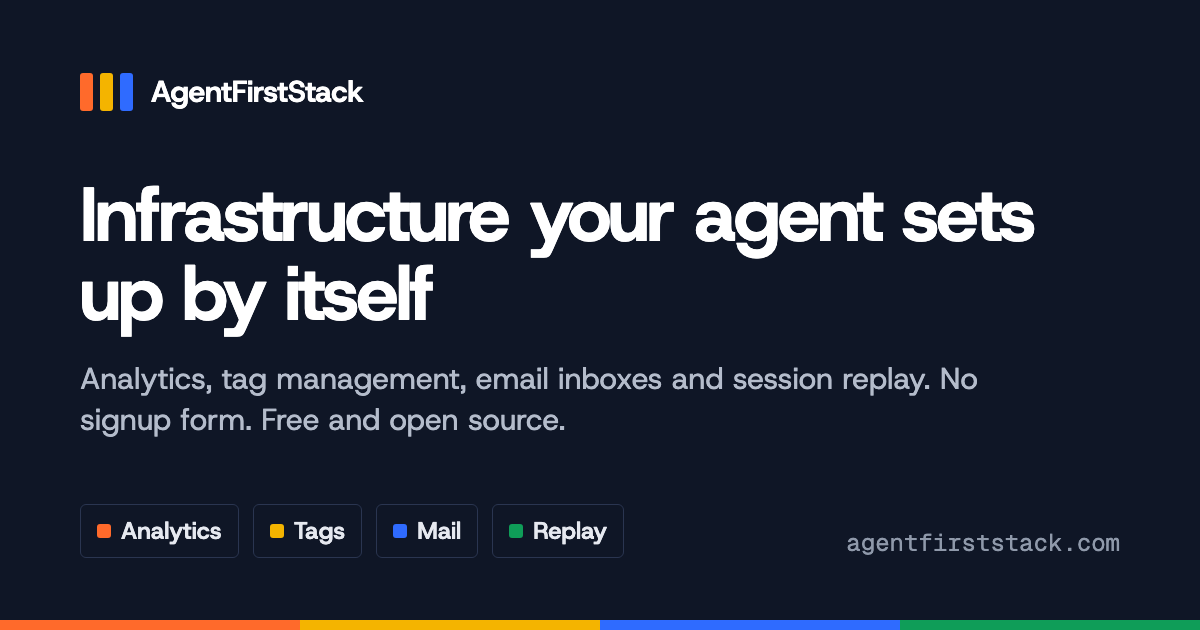
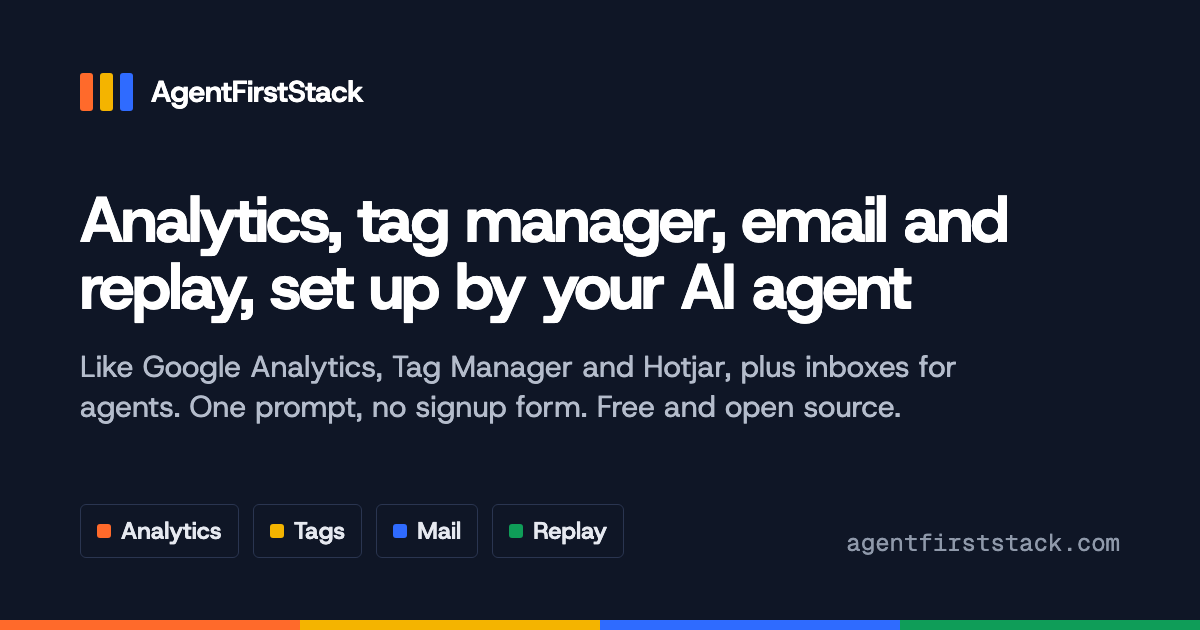
Landing page: say what it is in the headline, list every feature per service
The hero now names the four services and compares them with tools people
know, instead of "infrastructure". Under the service cards, a per-service
list of everything that is live, mirrored in index.md. New share card.

Claude-Session: https://claude.ai/code/session_01HFoY5UqoJPMDEvKj4n3CxU

Changed region(s): [[0.0617, 0.3016, 0.8633, 0.5429], [0.0617, 0.5429, 0.8325, 0.6937]]

diff --git a/site/public/index.html b/site/public/index.html
@@ -15,15 +15,15 @@
 <meta property="og:site_name" content="AgentFirstStack">
 <meta property="og:locale" content="en_US">
 <meta property="og:type" content="website">
-<meta property="og:title" content="AgentFirstStack: infrastructure your agent sets up by itself">
+<meta property="og:title" content="AgentFirstStack: analytics, tag manager, email and session replay your AI agent sets up">
 <meta property="og:description" content="Analytics, tag management, email inboxes and session replay your AI agent sets up end to end. No signup form. Free and open source.">
 <meta property="og:url" content="https://agentfirststack.com/">
 <meta property="og:image" content="https://agentfirststack.com/og/home.png">
 <meta property="og:image:width" content="1200">
 <meta property="og:image:height" content="630">
-<meta property="og:image:alt" content="AgentFirstStack: infrastructure your agent sets up by itself. Analytics, tags, mail, replay.">
+<meta property="og:image:alt" content="AgentFirstStack: analytics, tag manager, email and session replay, set up by your AI agent.">
 <meta name="twitter:card" content="summary_large_image">
-<meta name="twitter:title" content="AgentFirstStack: infrastructure your agent sets up by itself">
+<meta name="twitter:title" content="AgentFirstStack: analytics, tag manager, email and session replay your AI agent sets up">
 <meta name="twitter:description" content="Analytics, tag management, email inboxes and session replay your AI agent sets up end to end. Free and open source.">
 <meta name="twitter:image" content="https://agentfirststack.com/og/home.png">
 <meta name="theme-color" content="#FFFFFF">
@@ -107,8 +107,8 @@
 <section class="hero" id="setup">
   <div class="wrap hero-grid">
     <div class="hero-copy">
-      <h1>Infrastructure your agent sets up by itself</h1>
-      <p class="lede">Analytics, tag management with server-side conversion tracking, email inboxes and session replay. No signup form, no verification email, no dashboard to click through. Free and open source.</p>
+      <h1>Analytics, tag manager, email and session replay, set&nbsp;up by your AI agent</h1>
+      <p class="lede">Like Google Analytics, Google Tag Manager and Hotjar, plus email inboxes your agent can use. Paste one prompt and your coding agent creates the account, adds everything to your site and checks it works. No signup form, no dashboard. Free and open source.</p>
       <div class="actions">
         <button class="btn btn-primary" type="button" data-copy>Copy prompt for your agent</button>
         <a class="btn btn-quiet" href="/llms.txt">Read the manual</a>
@@ -280,6 +280,68 @@
         <a class="product-guide" href="/guides/session-replay-for-ai-agents">Session replay for AI agents</a>
       </article>
 
+    </div>
+    <div class="features" id="features">
+      <h3 class="features-title">What each service includes</h3>
+      <p class="features-lede">All of it over REST and MCP, with the same key. <a href="/guides">Comparisons with the tools you may use now</a>.</p>
+      <div class="features-grid">
+        <div class="feature-list" style="--c: var(--orange)">
+          <h4 class="product-name"><span class="dot" aria-hidden="true"></span>Analytics <span>instead of GA4, Plausible or DataFast</span></h4>
+          <dl>
+            <div><dt>Tracking</dt><dd>Cookieless by default, single-page and hash routing, custom events and properties (also from HTML attributes), outbound clicks, downloads, forms, 404s, scroll depth, engaged time, Core Web Vitals, site search, UTMs and ad click IDs</dd></div>
+            <div><dt>Server events</dt><dd>An events API with a dry run, joined to browser visitors</dd></div>
+            <div><dt>Reports</dt><dd>Stats, timeseries and comparisons, breakdowns by up to three dimensions, realtime, engagement rate, average order value, top movers, insights, CSV</dd></div>
+            <div><dt>Filters</dt><dd>Wildcards, nested and/or groups, saved segments, timezones</dd></div>
+            <div><dt>Goals and funnels</dt><dd>Goals that apply to past data, funnels in order or any order, with time windows and revenue per step</dd></div>
+            <div><dt>People</dt><dd>Visitors, sessions and journeys, first touch, retention cohorts, path exploration, six attribution models</dd></div>
+            <div><dt>Revenue</dt><dd>Stripe, a payments API, new and renewal revenue by source, page and campaign</dd></div>
+            <div><dt>Querying</dt><dd>Read-only SQL with cost limits, and a schema call that lists every event and property</dd></div>
+            <div><dt>Alerts</dt><dd>Spikes, drops, no data, goals and payments, plus weekly or monthly reports, by webhook, Slack or email</dd></div>
+            <div><dt>Privacy</dt><dd>Delete a visitor, purge with a dry run, email and phone redaction, path rules, exclusions, a referral-spam filter, Do Not Track and GPC</dd></div>
+          </dl>
+        </div>
+        <div class="feature-list" style="--c: var(--yellow)">
+          <h4 class="product-name"><span class="dot" aria-hidden="true"></span>Tags <span>instead of Google Tag Manager</span></h4>
+          <dl>
+            <div><dt>Workflow</dt><dd>A draft you edit item by item, diffs between versions, GTM import, a preview log, environments, versions and rollback</dd></div>
+            <div><dt>Triggers</dt><dd>Pageview, DOM ready, window loaded, consent initialization, clicks, forms, history changes, element visibility, scroll depth, timers, JavaScript errors, video, custom events, trigger groups</dd></div>
+            <div><dt>Variables</dt><dd>Data layer, URL parts, cookies, element attributes, lookup and regex tables, formatting, about 30 built-ins</dd></div>
+            <div><dt>Tag options</dt><dd>Priority, scheduling, sequencing, firing limits, consent per tag</dd></div>
+            <div><dt>Browser tags</dt><dd>GA4, Google Ads, Meta, TikTok, Snap, image pixels, custom HTML on verified domains</dd></div>
+            <div><dt>Conversion APIs</dt><dd>GA4, Google Ads, Meta, TikTok, LinkedIn, Pinterest, Reddit, Snap, X and webhooks, each counted once with the browser pixel</dd></div>
+            <div><dt>Routing</dt><dd>Per-platform conditions and parameter rules, test sends</dd></div>
+            <div><dt>Consent and identity</dt><dd>Consent Mode v2, TCF v2, hashed user data, cross-domain linking, a lookup store for values like margin by SKU</dd></div>
+            <div><dt>Monitoring</dt><dd>An event and delivery log, tag-fire stats, page coverage, retries and a circuit breaker</dd></div>
+          </dl>
+        </div>
+        <div class="feature-list" style="--c: var(--blue)">
+          <h4 class="product-name"><span class="dot" aria-hidden="true"></span>Mail <span>instead of AgentMail or a Gmail account</span></h4>
+          <dl>
+            <div><dt>Inboxes</dt><dd>Instant inboxes on our domain or yours, plus-address tags, labels, usage limits you can read</dd></div>
+            <div><dt>Waiting</dt><dd>Wait for an email and get the verification code or link back, from authenticated senders only</dd></div>
+            <div><dt>Reading</dt><dd>Threads, search, raw email, attachments and their text, calendar invites, replies without the quoted history</dd></div>
+            <div><dt>Sending</dt><dd>Send, reply and forward, safe to retry, scheduled sending, delivery status per recipient</dd></div>
+            <div><dt>Safety</dt><dd>Inboxes on the shared domain reply only to people who wrote first; allow and block lists</dd></div>
+            <div><dt>Domains</dt><dd>Custom domains with DNS checks, send-only domains, a zone file to import</dd></div>
+            <div><dt>Events</dt><dd>Signed webhooks, and an event feed an agent can poll without a public URL</dd></div>
+            <div><dt>Checks</dt><dd>A deliverability report for any message: SPF, DKIM and DMARC</dd></div>
+          </dl>
+        </div>
+        <div class="feature-list" style="--c: var(--green)">
+          <h4 class="product-name"><span class="dot" aria-hidden="true"></span>Replay <span>instead of Hotjar or Clarity</span></h4>
+          <dl>
+            <div><dt>Recording</dt><dd>Text and inputs masked in the browser by default, selectors to unmask, mask or block, sampling</dd></div>
+            <div><dt>Consent</dt><dd>Consent only where the law asks (EEA, UK, Switzerland), Google Consent Mode, TCF v2, Do Not Track and GPC, IP exclusion</dd></div>
+            <div><dt>Sessions</dt><dd>Search, readable transcripts, summaries across many sessions, raw events, exports, a share-link player and clips</dd></div>
+            <div><dt>Signals</dt><dd>Rage, dead and error clicks, quick backs, excessive scrolling, JavaScript and console errors, failed requests, a frustration score</dd></div>
+            <div><dt>Analysis</dt><dd>Tags and identify, saved segments, trends, funnel drop-offs, events defined after the fact</dd></div>
+            <div><dt>Heatmaps</dt><dd>Click, scroll and attention maps by element or zone, comparisons, conversion share, PNG images</dd></div>
+            <div><dt>Surveys</dt><dd>Popovers, embedded surveys and a feedback tab: NPS, CSAT, CES, product-market fit and text, triggered on exit intent or after a rage click, each answer linked to its session</dd></div>
+            <div><dt>Workflow</dt><dd>Notes, labels, stars, signed webhooks, signals sent on to analytics and your tag container</dd></div>
+            <div><dt>Privacy</dt><dd>Delete or look up one visitor&#x27;s data, recordings kept 14 days</dd></div>
+          </dl>
+        </div>
+      </div>
     </div>
   </div>
 </section>

diff --git a/site/public/styles.css b/site/public/styles.css
@@ -172,11 +172,11 @@ pre {
   align-items: center;
 }
 .hero h1 {
-  font-size: clamp(38px, 4.6vw, 56px);
+  font-size: clamp(36px, 4.2vw, 52px);
   font-weight: 650;
-  line-height: 1.04;
-  letter-spacing: -0.04em;
-  max-width: 13ch;
+  line-height: 1.06;
+  letter-spacing: -0.035em;
+  max-width: 17ch;
   text-wrap: balance;
 }
 .lede {
@@ -1129,7 +1129,7 @@ pre {
     grid-template-columns: 1fr;
   }
   .hero h1 {
-    max-width: 16ch;
+    max-width: 18ch;
   }
   .chat {
     height: 520px;
@@ -1252,4 +1252,78 @@ pre {
 .guides-all {
   margin-top: 16px;
   font-size: 14.5px;
+}
+
+/* Everything each service does, under the service cards */
+.features {
+  margin-top: clamp(40px, 5vw, 56px);
+}
+.features-title {
+  font-size: 21px;
+  font-weight: 650;
+  letter-spacing: -0.02em;
+}
+.features-lede {
+  margin-top: 6px;
+  font-size: 15px;
+  color: var(--ink-2);
+}
+.features-grid {
+  display: grid;
+  grid-template-columns: repeat(2, minmax(0, 1fr));
+  margin-top: 18px;
+  border: 1px solid var(--line);
+  border-radius: 14px;
+  background: #fff;
+  overflow: hidden;
+}
+.feature-list {
+  padding: 22px;
+}
+.feature-list h4 {
+  margin: 0;
+  flex-wrap: wrap;
+  row-gap: 2px;
+}
+.feature-list:nth-child(even) {
+  border-left: 1px solid var(--line);
+}
+.feature-list:nth-child(n + 3) {
+  border-top: 1px solid var(--line);
+}
+.feature-list dl {
+  display: grid;
+  gap: 10px;
+  margin: 14px 0 0;
+}
+.feature-list dl > div {
+  display: grid;
+  grid-template-columns: 112px minmax(0, 1fr);
+  gap: 14px;
+  font-size: 14px;
+  line-height: 1.5;
+}
+.feature-list dt {
+  font-weight: 600;
+}
+.feature-list dd {
+  margin: 0;
+  color: var(--ink-2);
+}
+@media (max-width: 980px) {
+  .features-grid {
+    grid-template-columns: 1fr;
+  }
+  .feature-list:nth-child(even) {
+    border-left: 0;
+  }
+  .feature-list + .feature-list {
+    border-top: 1px solid var(--line);
+  }
+}
+@media (max-width: 600px) {
+  .feature-list dl > div {
+    grid-template-columns: 1fr;
+    gap: 2px;
+  }
 }

diff --git a/site/public/index.md b/site/public/index.md
@@ -1,8 +1,9 @@
 # AgentFirstStack
 
-Infrastructure your agent sets up by itself: web analytics, tag management with server-side
-conversion tracking, email inboxes and session replay. No signup form, no verification email, no dashboard to
-click through. Free to use, and open source (MIT).
+Analytics, tag manager, email and session replay, set up by your AI agent. Like Google Analytics,
+Google Tag Manager and Hotjar, plus email inboxes your agent can use. Paste one prompt and your coding
+agent creates the account, adds everything to your site and checks it works. No signup form, no
+verification email, no dashboard to click through. Free to use, and open source (MIT).
 
 - Manual for agents: https://agentfirststack.com/llms.txt
 - Registration and credentials: https://agentfirststack.com/auth.md
@@ -27,6 +28,58 @@ click through. Free to use, and open source (MIT).
 | Tags | One snippet for every pixel; conversions sent from the browser and your server to GA4, Google Ads, Meta and TikTok with one event id, so each counts it once; click IDs kept; preview, publish, roll back | Google Tag Manager | https://tags.agentfirststack.com/llms.txt |
 | Mail | Inboxes in one request; verification codes and links extracted; read, reply, send; your own domain; webhooks | A Gmail account per project | https://mail.agentfirststack.com/llms.txt |
 | Replay | Session recordings masked in the browser by default; sessions as readable transcripts; rage, dead and error clicks; heatmaps and JS errors as data | Hotjar, Microsoft Clarity | https://replay.agentfirststack.com/llms.txt |
+
+## What each service includes
+
+All of it over REST and MCP, with the same key.
+
+### Analytics (instead of GA4, Plausible or DataFast)
+
+- **Tracking:** Cookieless by default, single-page and hash routing, custom events and properties (also from HTML attributes), outbound clicks, downloads, forms, 404s, scroll depth, engaged time, Core Web Vitals, site search, UTMs and ad click IDs.
+- **Server events:** An events API with a dry run, joined to browser visitors.
+- **Reports:** Stats, timeseries and comparisons, breakdowns by up to three dimensions, realtime, engagement rate, average order value, top movers, insights, CSV.
+- **Filters:** Wildcards, nested and/or groups, saved segments, timezones.
+- **Goals and funnels:** Goals that apply to past data, funnels in order or any order, with time windows and revenue per step.
+- **People:** Visitors, sessions and journeys, first touch, retention cohorts, path exploration, six attribution models.
+- **Revenue:** Stripe, a payments API, new and renewal revenue by source, page and campaign.
+- **Querying:** Read-only SQL with cost limits, and a schema call that lists every event and property.
+- **Alerts:** Spikes, drops, no data, goals and payments, plus weekly or monthly reports, by webhook, Slack or email.
+- **Privacy:** Delete a visitor, purge with a dry run, email and phone redaction, path rules, exclusions, a referral-spam filter, Do Not Track and GPC.
+
+### Tags (instead of Google Tag Manager)
+
+- **Workflow:** A draft you edit item by item, diffs between versions, GTM import, a preview log, environments, versions and rollback.
+- **Triggers:** Pageview, DOM ready, window loaded, consent initialization, clicks, forms, history changes, element visibility, scroll depth, timers, JavaScript errors, video, custom events, trigger groups.
+- **Variables:** Data layer, URL parts, cookies, element attributes, lookup and regex tables, formatting, about 30 built-ins.
+- **Tag options:** Priority, scheduling, sequencing, firing limits, consent per tag.
+- **Browser tags:** GA4, Google Ads, Meta, TikTok, Snap, image pixels, custom HTML on verified domains.
+- **Conversion APIs:** GA4, Google Ads, Meta, TikTok, LinkedIn, Pinterest, Reddit, Snap, X and webhooks, each counted once with the browser pixel.
+- **Routing:** Per-platform conditions and parameter rules, test sends.
+- **Consent and identity:** Consent Mode v2, TCF v2, hashed user data, cross-domain linking, a lookup store for values like margin by SKU.
+- **Monitoring:** An event and delivery log, tag-fire stats, page coverage, retries and a circuit breaker.
+
+### Mail (instead of AgentMail or a Gmail account)
+
+- **Inboxes:** Instant inboxes on our domain or yours, plus-address tags, labels, usage limits you can read.
+- **Waiting:** Wait for an email and get the verification code or link back, from authenticated senders only.
+- **Reading:** Threads, search, raw email, attachments and their text, calendar invites, replies without the quoted history.
+- **Sending:** Send, reply and forward, safe to retry, scheduled sending, delivery status per recipient.
+- **Safety:** Inboxes on the shared domain reply only to people who wrote first; allow and block lists.
+- **Domains:** Custom domains with DNS checks, send-only domains, a zone file to import.
+- **Events:** Signed webhooks, and an event feed an agent can poll without a public URL.
+- **Checks:** A deliverability report for any message: SPF, DKIM and DMARC.
+
+### Replay (instead of Hotjar or Clarity)
+
+- **Recording:** Text and inputs masked in the browser by default, selectors to unmask, mask or block, sampling.
+- **Consent:** Consent only where the law asks (EEA, UK, Switzerland), Google Consent Mode, TCF v2, Do Not Track and GPC, IP exclusion.
+- **Sessions:** Search, readable transcripts, summaries across many sessions, raw events, exports, a share-link player and clips.
+- **Signals:** Rage, dead and error clicks, quick backs, excessive scrolling, JavaScript and console errors, failed requests, a frustration score.
+- **Analysis:** Tags and identify, saved segments, trends, funnel drop-offs, events defined after the fact.
+- **Heatmaps:** Click, scroll and attention maps by element or zone, comparisons, conversion share, PNG images.
+- **Surveys:** Popovers, embedded surveys and a feedback tab: NPS, CSAT, CES, product-market fit and text, triggered on exit intent or after a rage click, each answer linked to its session.
+- **Workflow:** Notes, labels, stars, signed webhooks, signals sent on to analytics and your tag container.
+- **Privacy:** Delete or look up one visitor's data, recordings kept 14 days.
 
 ## MCP
 
